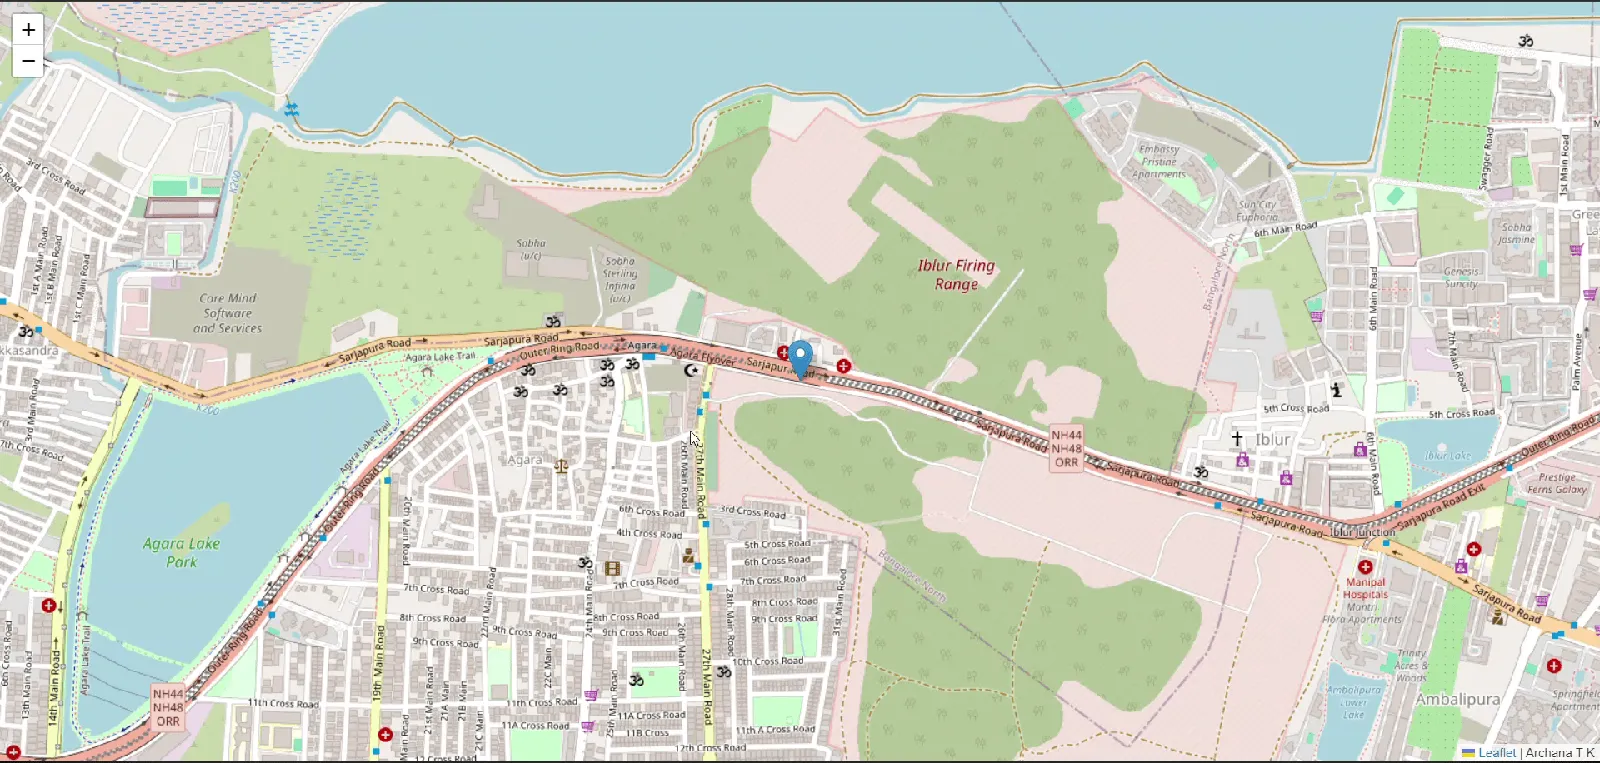
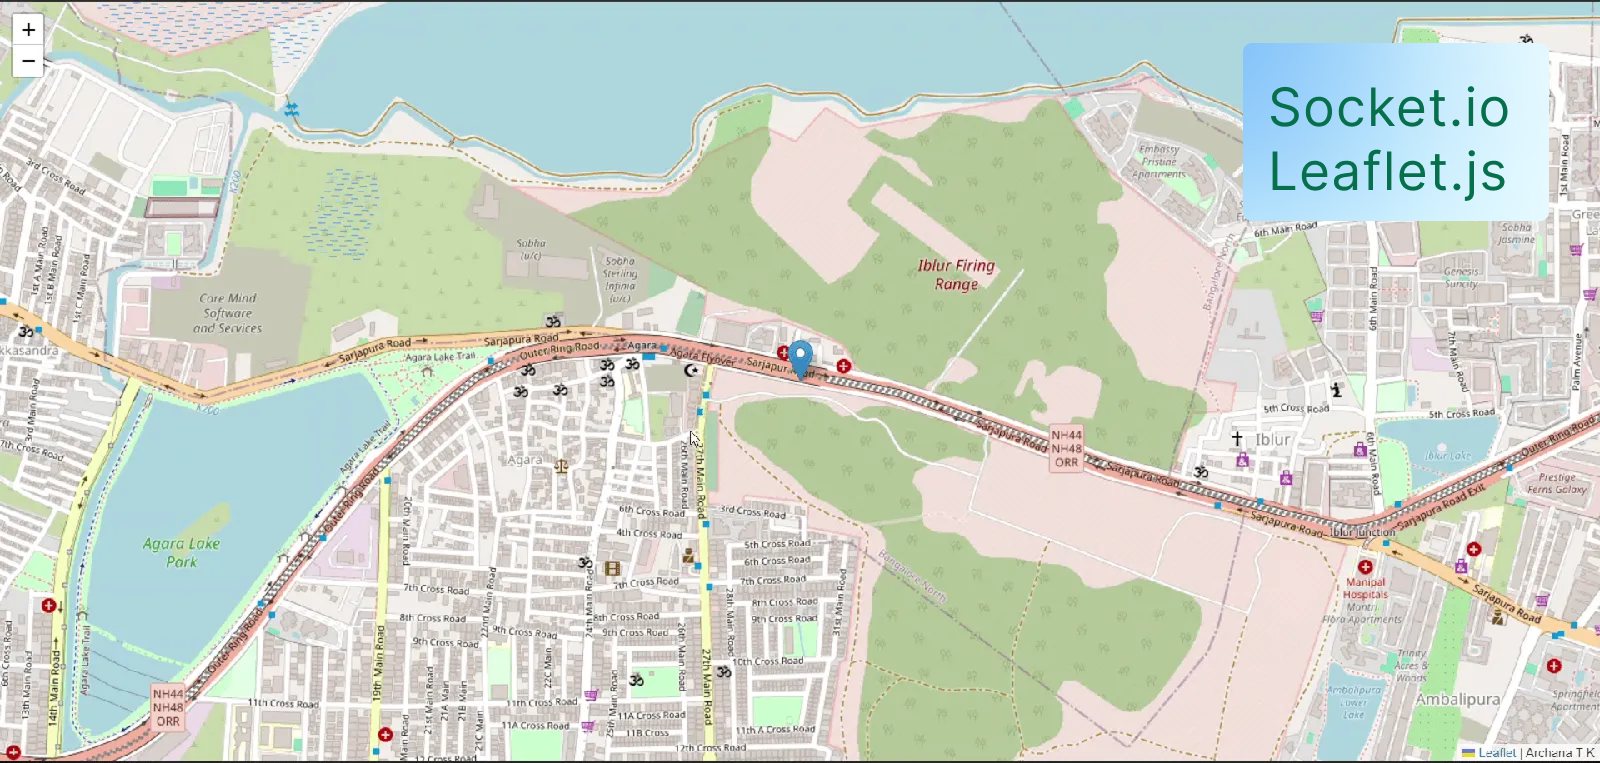
add experiment tag to ProjectCard, update portfolio layout, and refine case study content

Changed region(s): [[0.75, 0.0301, 0.9688, 0.3014]]

diff --git a/src/app/page.tsx b/src/app/page.tsx
@@ -20,6 +20,8 @@ import habitThumbnail from "@/assets/habit-tracker.webp";
 import chatThumbnail from "@/assets/chat.webp";
 import mapThumbnail from "@/assets/map.webp";
 import securityThumbnail from "@/assets/securityVul.webp";
+import BentoBoxThumbnail from "@/assets/bento_box.webp";
+import insightCardIphoneThumbnail from "@/assets/insightCard.avif";
 
 
 export default function Home() {
@@ -63,7 +65,7 @@ export default function Home() {
       {/* Social Links */}
       <div className="mt-6 flex w-full flex-wrap justify-start gap-3">
         <SocialLink
-          href="Archana_Resume.pdf"
+          href="/Archana_Resume.pdf"
           label="Resume"
           Icon={ArrowDownToLine}
         />
@@ -124,21 +126,42 @@ export default function Home() {
             customPageUrl="/projects/bypassing-paywall"
           />
           <ProjectCard
-            title="Dataverse"
-            imageSrc={dataverseThumbnail}
-            projectUrl="https://dataverse-nu.vercel.app/"
-            githubUrl="https://github.com/archanaprabhat/dataverse-cloud-erp"
-          />
-          <ProjectCard
             title="Sunva:Seamless conversation loop for the deaf "
             imageSrc={sunvaThumbnail}
-            projectUrl="https://www.youtube.com/watch?v=pF41AyUhE7w"
+            projectUrl="https://www.youtube.com/watch?v=vDGHeRZ_xHI&list=PLyERFVb5NMdy4Qppp2O0uhE-OLIKDfpLz&index=1"
+          />
+          <ProjectCard
+            title="BentoBox"
+            imageSrc={BentoBoxThumbnail}
+            projectUrl="https://archanaprabhat.github.io/Bento-Box/"
+            githubUrl="https://github.com/archanaprabhat/Bento-Box"
+          />
+          <ProjectCard
+            title="Stagger Animation"
+            imageSrc={insightCardIphoneThumbnail}
+            projectUrl="https://archanaprabhat.github.io/insight-card-iphone/"
+            githubUrl="https://github.com/archanaprabhat/insight-card-iphone"
           />
           <ProjectCard
             title="Peer-to-Peer Chess"
             imageSrc={chessThumbnail}
             projectUrl="https://www.youtube.com/watch?v=jX7EPPMupLs"
             githubUrl="https://github.com/archanaprabhat/chess"
+            isExperiment={true}
+          />
+          <ProjectCard
+            title="Real Time Tracker"
+            imageSrc={mapThumbnail}
+            projectUrl="https://www.youtube.com/watch?v=rFD_K5pVOc0"
+            githubUrl="https://github.com/archanaprabhat/RealTime-Tracker"
+            isExperiment={true}
+          />
+          <ProjectCard
+            title="Socket.IO Chat App"
+            imageSrc={chatThumbnail}
+            projectUrl="https://www.youtube.com/shorts/--Hswuwx7jw"
+            githubUrl="https://github.com/archanaprabhat/ChatApp"
+            isExperiment={true}
           />
           <ProjectCard
             title="Watchlistr"
@@ -162,28 +185,39 @@ export default function Home() {
             ]}
           />
           <ProjectCard
+            title="Dataverse"
+            imageSrc={dataverseThumbnail}
+            projectUrl="https://dataverse-nu.vercel.app/"
+            githubUrl="https://github.com/archanaprabhat/dataverse-cloud-erp"
+          />
+
+          <ProjectCard
             title="Consistency Tracker"
             imageSrc={habitThumbnail}
             projectUrl="https://tracker-nextjs-iqvc.vercel.app/"
             githubUrl="https://github.com/archanaprabhat/Consistency"
+            demoVideo="/consistency.mp4"
+            techStack={[
+              {
+                category: "Frontend",
+                items: "Next.js 14 (App Router), TypeScript, React, Tailwind CSS 4(Multiple themes)",
+              },
+              {
+                category: "Backend, Database & Storage",
+                items: "Firebase, Firebase Admin, Localstorage",
+              },
+              {
+                category: "UI Components & Icons",
+                items: "Lucide React & React Icons, Sonner, Emoji Picker React",
+              },
+            ]}
           />
-          <ProjectCard
-            title="Real Time Tracker"
-            imageSrc={mapThumbnail}
-            projectUrl="https://www.youtube.com/watch?v=rFD_K5pVOc0"
-            githubUrl="https://github.com/archanaprabhat/RealTime-Tracker"
-          />
+
           <ProjectCard
             title="Harry Potter Sorting Hat"
             imageSrc={harryPotterThumbnail}
             projectUrl="https://sorting-hat-magic.vercel.app/"
             githubUrl="https://github.com/archanaprabhat/Harry_Potter_Sorting_Hat"
-          />
-          <ProjectCard
-            title="Socket.IO Chat App"
-            imageSrc={chatThumbnail}
-            projectUrl="https://www.youtube.com/shorts/--Hswuwx7jw"
-            githubUrl="https://github.com/archanaprabhat/ChatApp"
           />
         </div>
       </div>

diff --git a/src/components/ProjectCard.tsx b/src/components/ProjectCard.tsx
@@ -18,6 +18,7 @@ interface ProjectCardProps {
   demoImage?: string;
   techStack?: TechStackItem[];
   customPageUrl?: string;
+  isExperiment?: boolean;
 }
 
 export default function ProjectCard({
@@ -31,6 +32,7 @@ export default function ProjectCard({
   demoImage,
   techStack,
   customPageUrl,
+  isExperiment,
 }: ProjectCardProps) {
   const [isModalOpen, setIsModalOpen] = useState(false);
   const router = useRouter();
@@ -53,7 +55,7 @@ export default function ProjectCard({
         role="button"
         tabIndex={0}
         aria-label={title}
-        className="project-card cursor-pointer"
+        className="project-card cursor-pointer flex flex-col"
         onClick={handleCardClick}
         onKeyDown={(e) => {
           if (e.key === 'Enter' || e.key === ' ') {
@@ -71,19 +73,29 @@ export default function ProjectCard({
             </div>
           )}
         </div>
-        <div className="flex w-full flex-col p-4 font-medium">
-          <span>{title}</span>
-          {githubUrl && (
-            <a
-              href={githubUrl}
-              className="font-normal text-gray-1100 self-end"
-              target="_blank"
-              rel="noreferrer"
-              onClick={(e) => e.stopPropagation()}
-            >
-              <Github />
-            </a>
-          )}
+        <div className="flex w-full flex-col p-4 font-medium flex-1">
+          <span className="mb-3">{title}</span>
+          <div className="mt-auto flex w-full items-center justify-between">
+            {isExperiment ? (
+              <div className="flex items-center gap-1.5 rounded border border-gray-300 bg-gray-100/50 px-2 py-1 text-xs font-medium text-gray-1000 select-none">
+                <Image src="/experiment.svg" alt="Experiment" width={18} height={18} className="object-contain" />
+                <span>Experiment</span>
+              </div>
+            ) : (
+              <div />
+            )}
+            {githubUrl && (
+              <a
+                href={githubUrl}
+                className="font-normal text-gray-1100 hover:text-gray-1200 transition-colors ml-auto"
+                target="_blank"
+                rel="noreferrer"
+                onClick={(e) => e.stopPropagation()}
+              >
+                <Github size={20} />
+              </a>
+            )}
+          </div>
         </div>
       </div>
 

diff --git a/src/app/projects/bypassing-paywall/page.tsx b/src/app/projects/bypassing-paywall/page.tsx
@@ -74,6 +74,8 @@ export default function BypassingPaywallPage() {
           <br /> <br />
           First, I quickly built a custom Chrome extension to handle the logic right in the browser. Then, to actually pull the data, I used a Python script that would download the premium content pages automatically.
           <br /> <br />
+          (Note: I’m intentionally keeping the technicalities of how this extension and script worked vague here, because as of right now, parts of the issue are still unfixed on their site).
+          <br /> <br />
           Once I had everything running smoothly, I recorded a quick video showing the whole process in action, the extension working, the script downloading the pages, and the premium content loading up perfectly.
           <br /> <br />
           <div className="flex justify-start">
@@ -94,12 +96,12 @@ export default function BypassingPaywallPage() {
           <br /> <br />
           OSINT (Open Source Intelligence) was pretty new to me, but I used it to dig around and map out the organization. It helped me find the email addresses of the actual people at the top who could handle this, including the tech leads and the CEO.
           <br /> <br />
-          I sent a detailed mail explaining what I found, attached the demonstration video showing the Chrome extension and Python script at work, and sent it to everyone on that list.
+          I reached out through every channel I could find, sent detailed emails explaining what I found, attached the demonstration video, and even messaged them directly.
           <br /> <br />
-          They caught on quickly, realized how serious it was, and the dev team patched the issue.
+          <h2 className="text-xl font-medium text-gray-1200 mb-4">The Silent Fix</h2>
+          They never actually responded to me. Not a single reply, email, or message. But even though they completely ghosted me, they clearly saw the proof. Shortly after I reached out, their dev team quietly went in and patched parts of the issue. Even though things aren't 100% fully resolved across the entire site yet, they locked down the main loophole I exposed.
           <br /> <br />
-          So yeah, that’s how a random afternoon of messing around ended up helping a lot. Honestly, it just felt good to finally use my coding skills for something tangible that people around me could actually understand. I went from being the person who "works in tech but gets blamed when the internet goes down" to actually making a difference out there. At least now I have a solid answer the next time my family asks what exactly it is that I do all day on my laptop.
-
+          So yeah, that’s how a random afternoon of messing around ended up helping a lot.
         </p>
       </div>
 